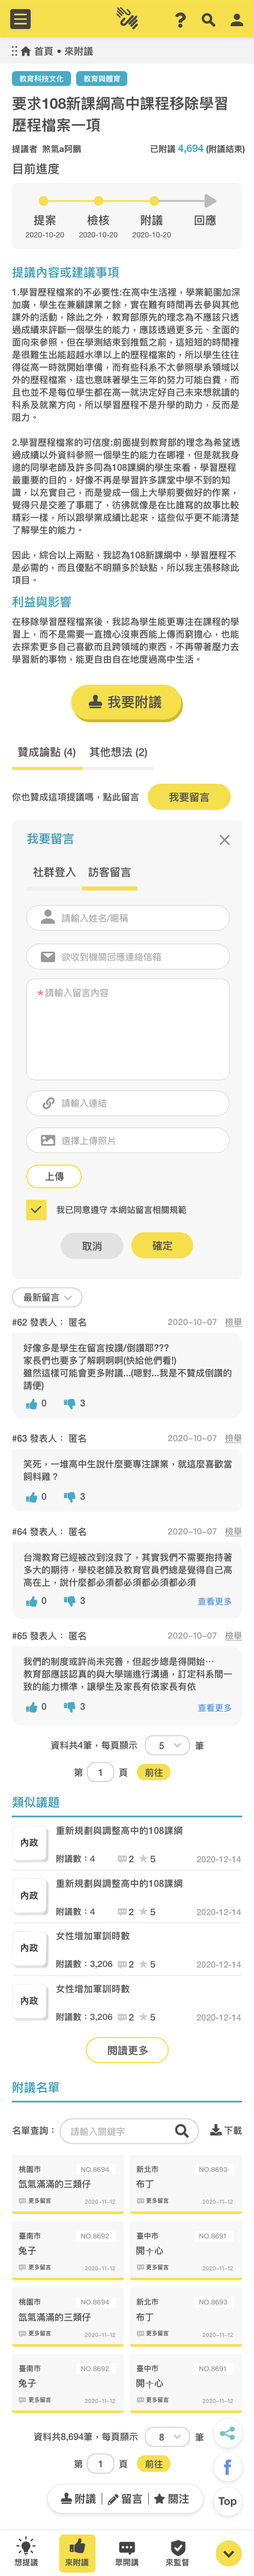
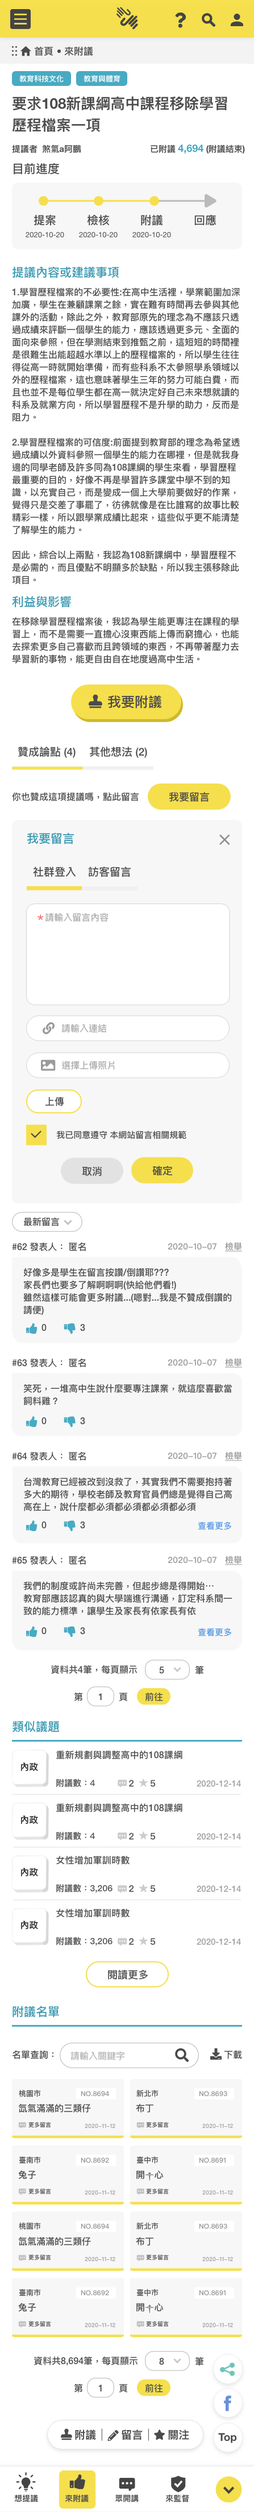
0125-new-7

diff --git a/second-sociallogin-dialog-m.html b/second-sociallogin-dialog-m.html
@@ -4,7 +4,7 @@
 
 
 <body style="margin: 0px;">
-	<img style="width:100%;" src="./img/來附議-留言登入-社群登入留言-手機版.jpg" alt="">
+	<img style="width:100%;" src="./img/來附議-留言登入-訪客留言-手機版.jpg" alt="">
 </body>
 
 </html>
